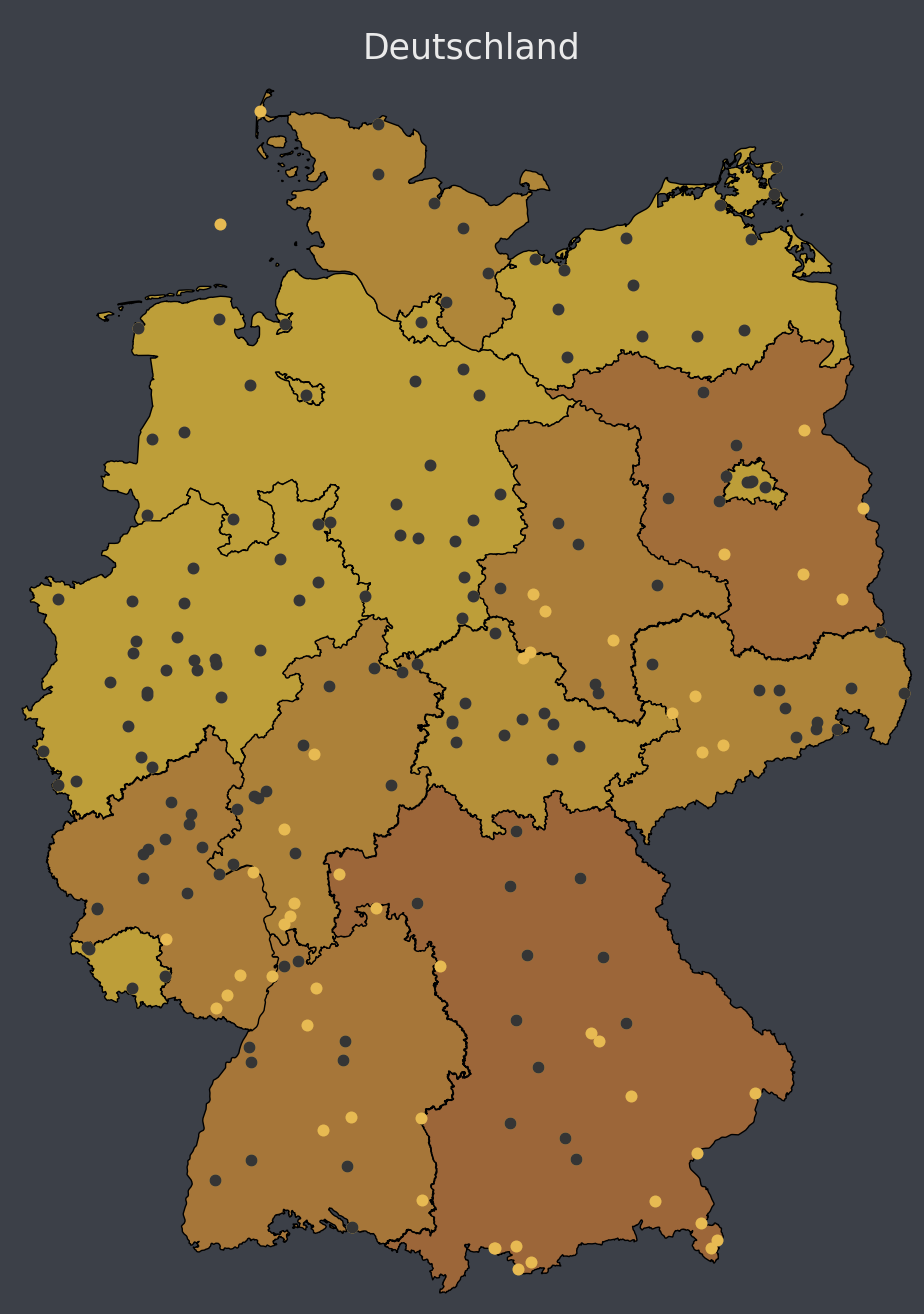
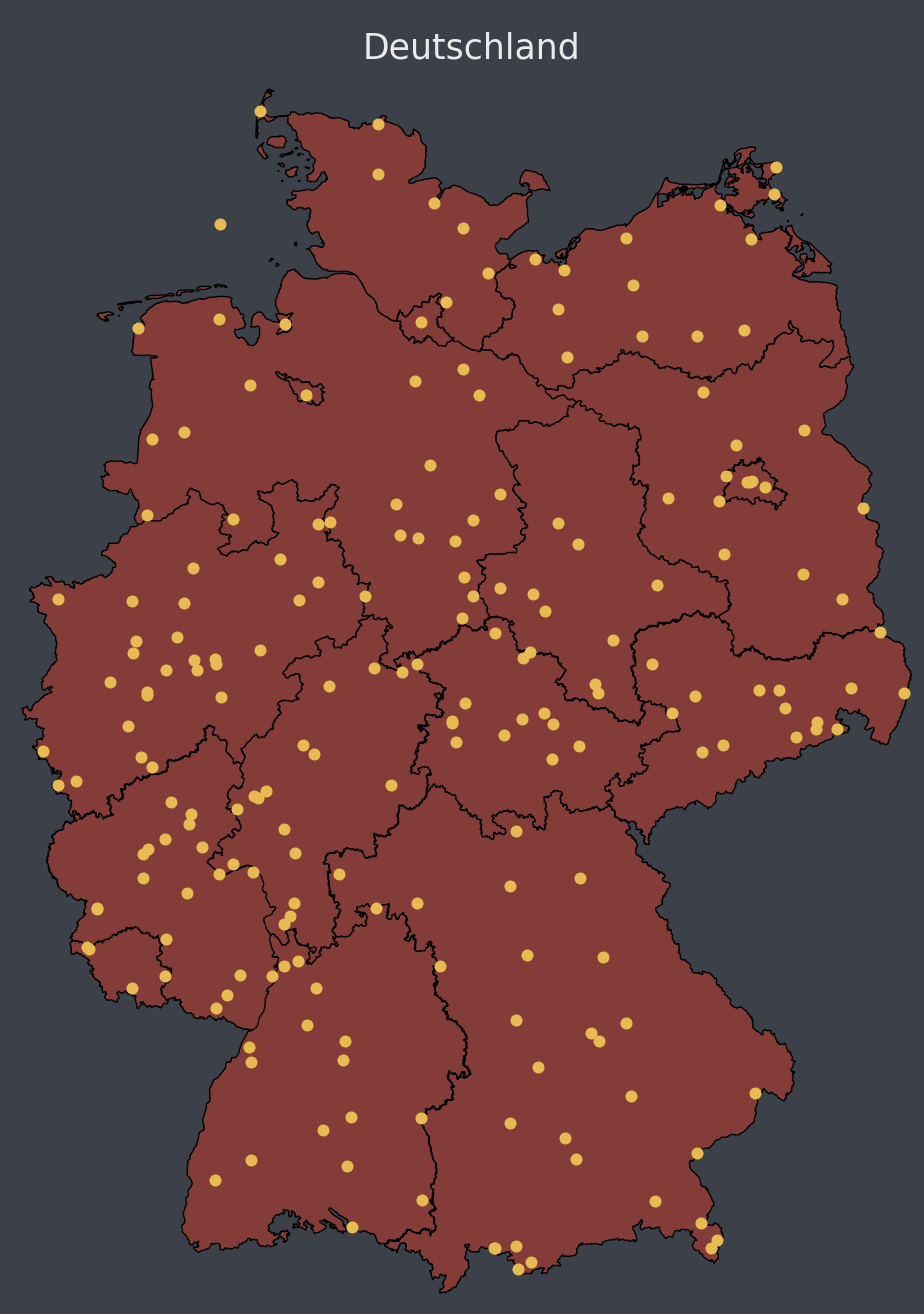
update gif maker

diff --git a/plotting/gif_generator.py b/plotting/gif_generator.py
@@ -2,6 +2,7 @@ from utils.file_utils import cleanup_directory
 import make_gif
 
 import psutil
+import shutil
 import os
 from PIL import Image
 import imageio.v2 as imageio
@@ -46,6 +47,15 @@ class GifGenerator:
             If no valid image files are found in the input folder.
         """
 
+        image_files = sorted(os.listdir(input_folder))
+        # Get First and Last Images
+        first_file, last_file = image_files[0], image_files[-1]
+
+        # Make Image Copies
+        for i in range(5):
+            shutil.copy(os.path.join(input_folder, first_file), os.path.join(input_folder, first_file + f"_{i+1}"))
+            shutil.copy(os.path.join(input_folder, last_file), os.path.join(input_folder, last_file + f"_{i+1}"))
+
         # List all files in the input folder and filter by valid image extensions
         image_files = sorted([
             f for f in os.listdir(input_folder)
@@ -77,20 +87,6 @@ class GifGenerator:
             duration=duration,        # Duration per frame in ms
             loop=0                    # Loop forever
         )
-
-    def create_gif_imageio(input_folder, output_gif, duration=0.2):
-        image_files = sorted([
-            os.path.join(input_folder, f)
-            for f in os.listdir(input_folder)
-            if f.lower().endswith(('.png', '.jpg', '.jpeg'))
-        ])
-
-        with imageio.get_writer(output_gif, mode='I', duration=duration) as writer:
-            for filename in image_files:
-                image = imageio.imread(filename)
-                print(filename)
-                print(f"Memory used: {psutil.Process(os.getpid()).memory_info().rss / 1024**2:.2f} MB")
-                writer.append_data(image)
 
     def memory_used():
         import os

diff --git a/main.py b/main.py
@@ -1,4 +1,4 @@
-import pandas as pd
+#import pandas as pd
 import datetime
 
 from metadata.meta_loader import MetaLoader
@@ -43,15 +43,21 @@ plot_manager = PlotManager(
     path=PATH,
     scale=SCALE
 )
-for _, row in points_sorted.iterrows():
-    current_date = row['date']
-    if pd.notna(current_date) and current_date != old_date:
-        plot_manager.generate_plot(current_date, row)
-        old_date = current_date
 
-# Create Last Plot
-old_date += datetime.timedelta(days=1)
-plot_manager.generate_plot(old_date, row)
+# Add first plot
+current_date = points_sorted['date'].min() - datetime.timedelta(days=1)
+plot_manager.generate_plot(current_date, points_sorted.iloc[0])
+
+## Plot all dates
+#for _, row in points_sorted.iterrows():
+#    current_date = row['date']
+#    if pd.notna(current_date) and current_date != old_date:
+#        plot_manager.generate_plot(current_date, row)
+#        old_date = current_date
+
+## Create Last Plot
+#old_date += datetime.timedelta(days=1)
+#plot_manager.generate_plot(old_date, row)
 
 # Create gif from produced plots
 gif = GifGenerator(
@@ -60,4 +66,4 @@ gif = GifGenerator(
     duration=200
 )
 gif.generate()
-gif.cleanup_temp()
+#gif.cleanup_temp()
